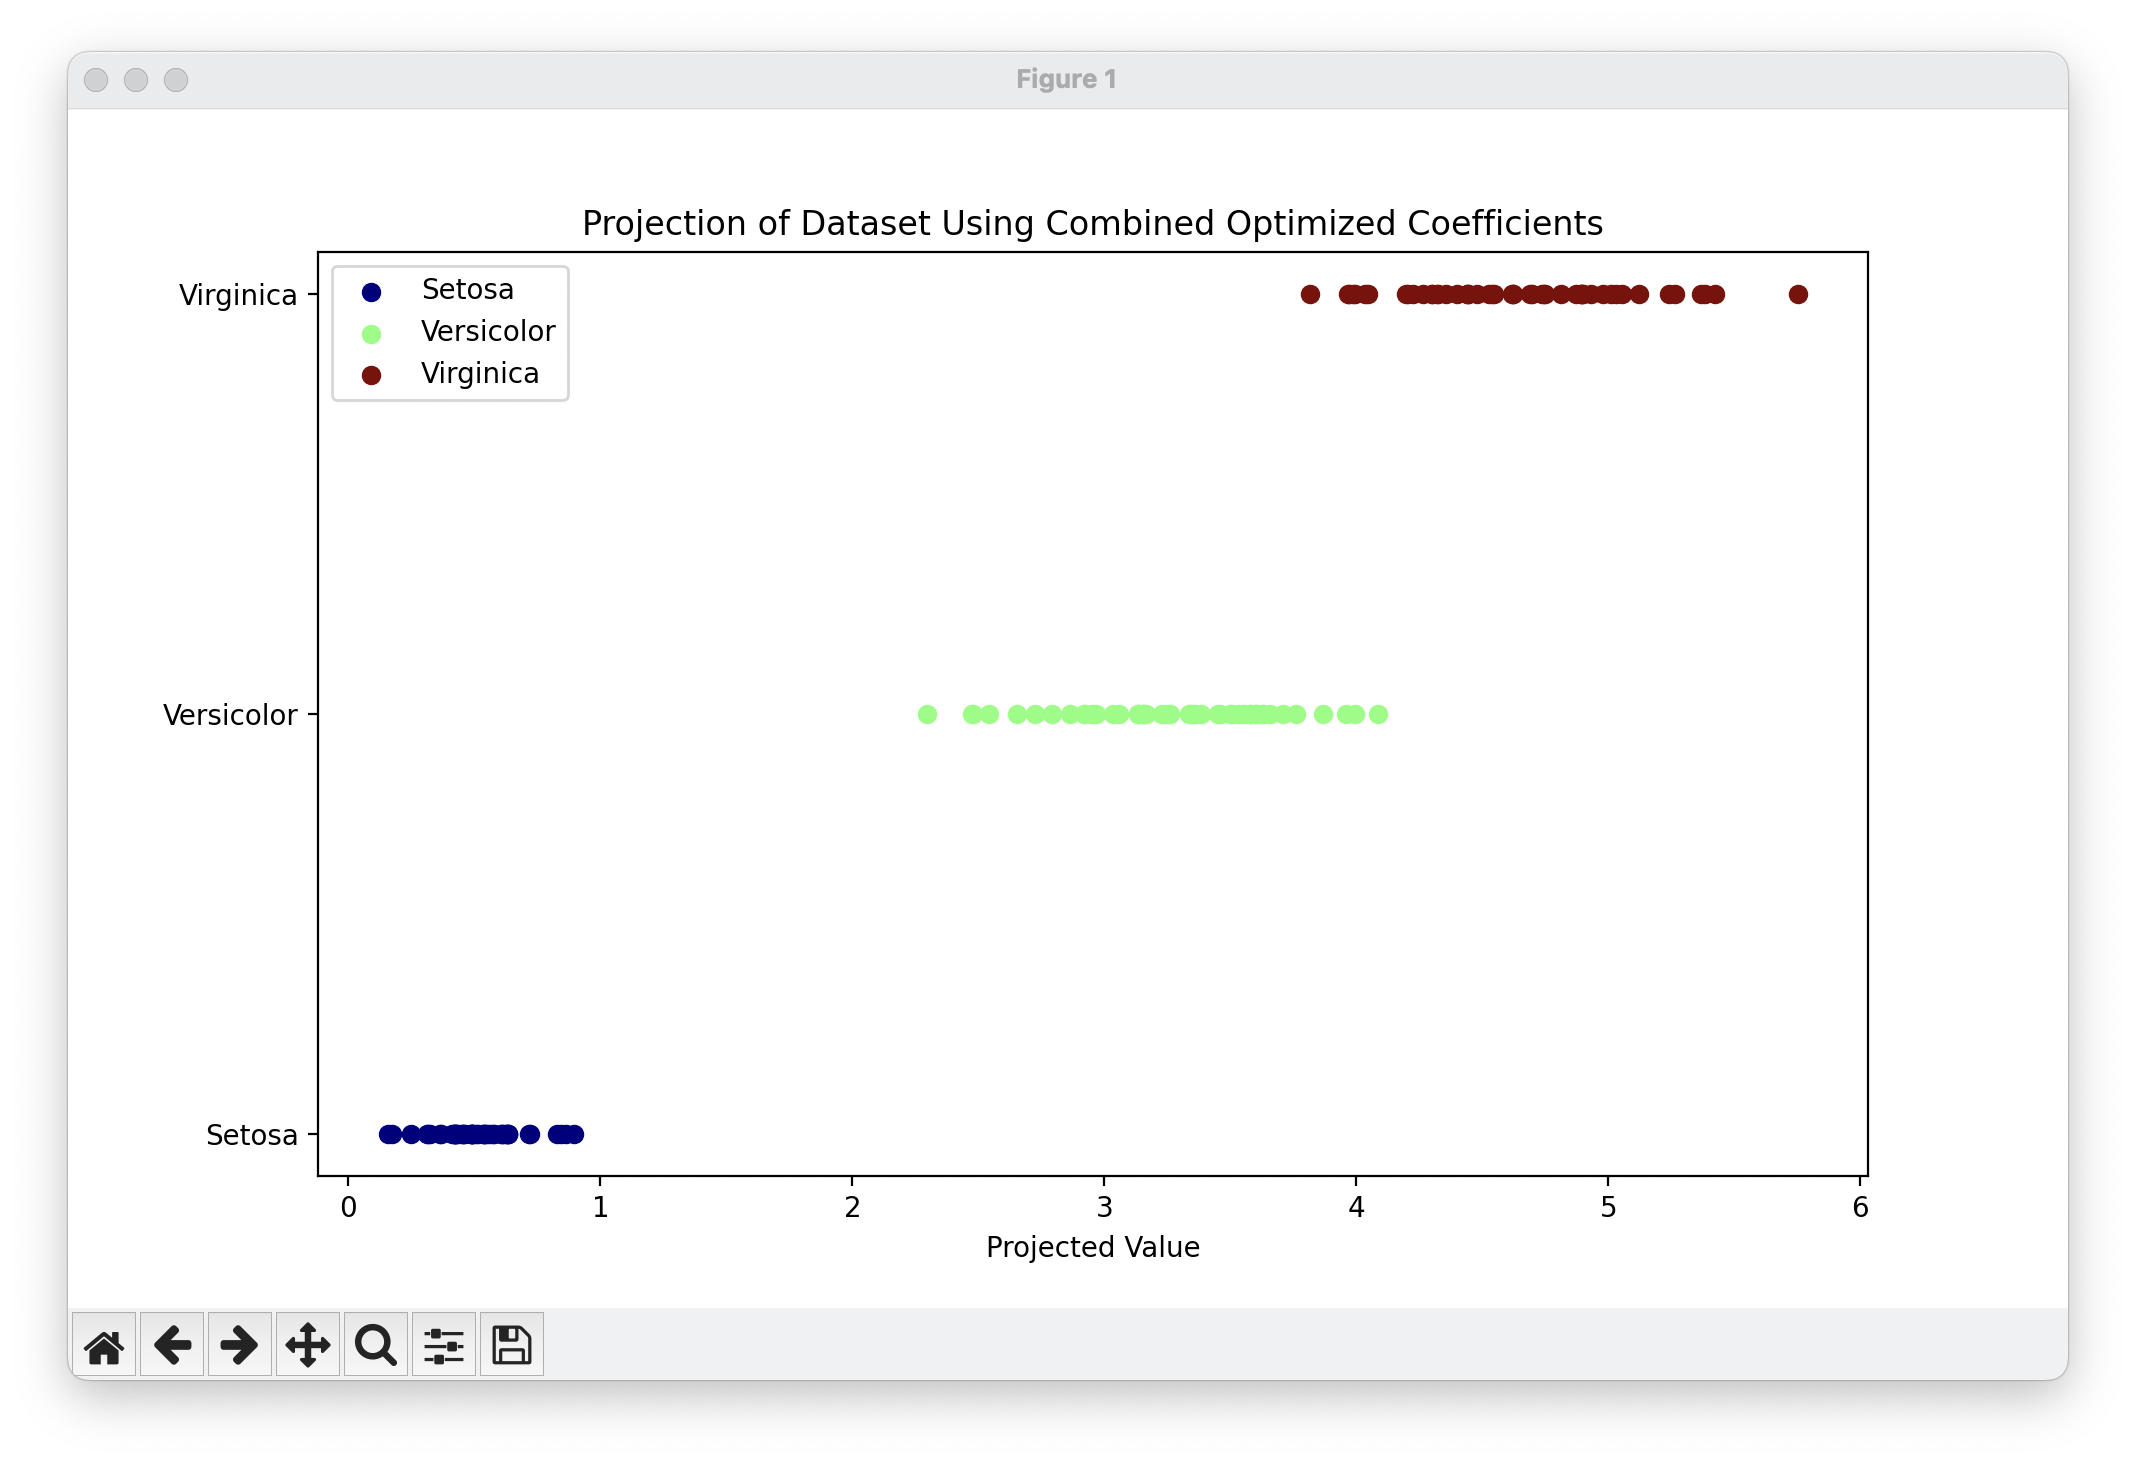
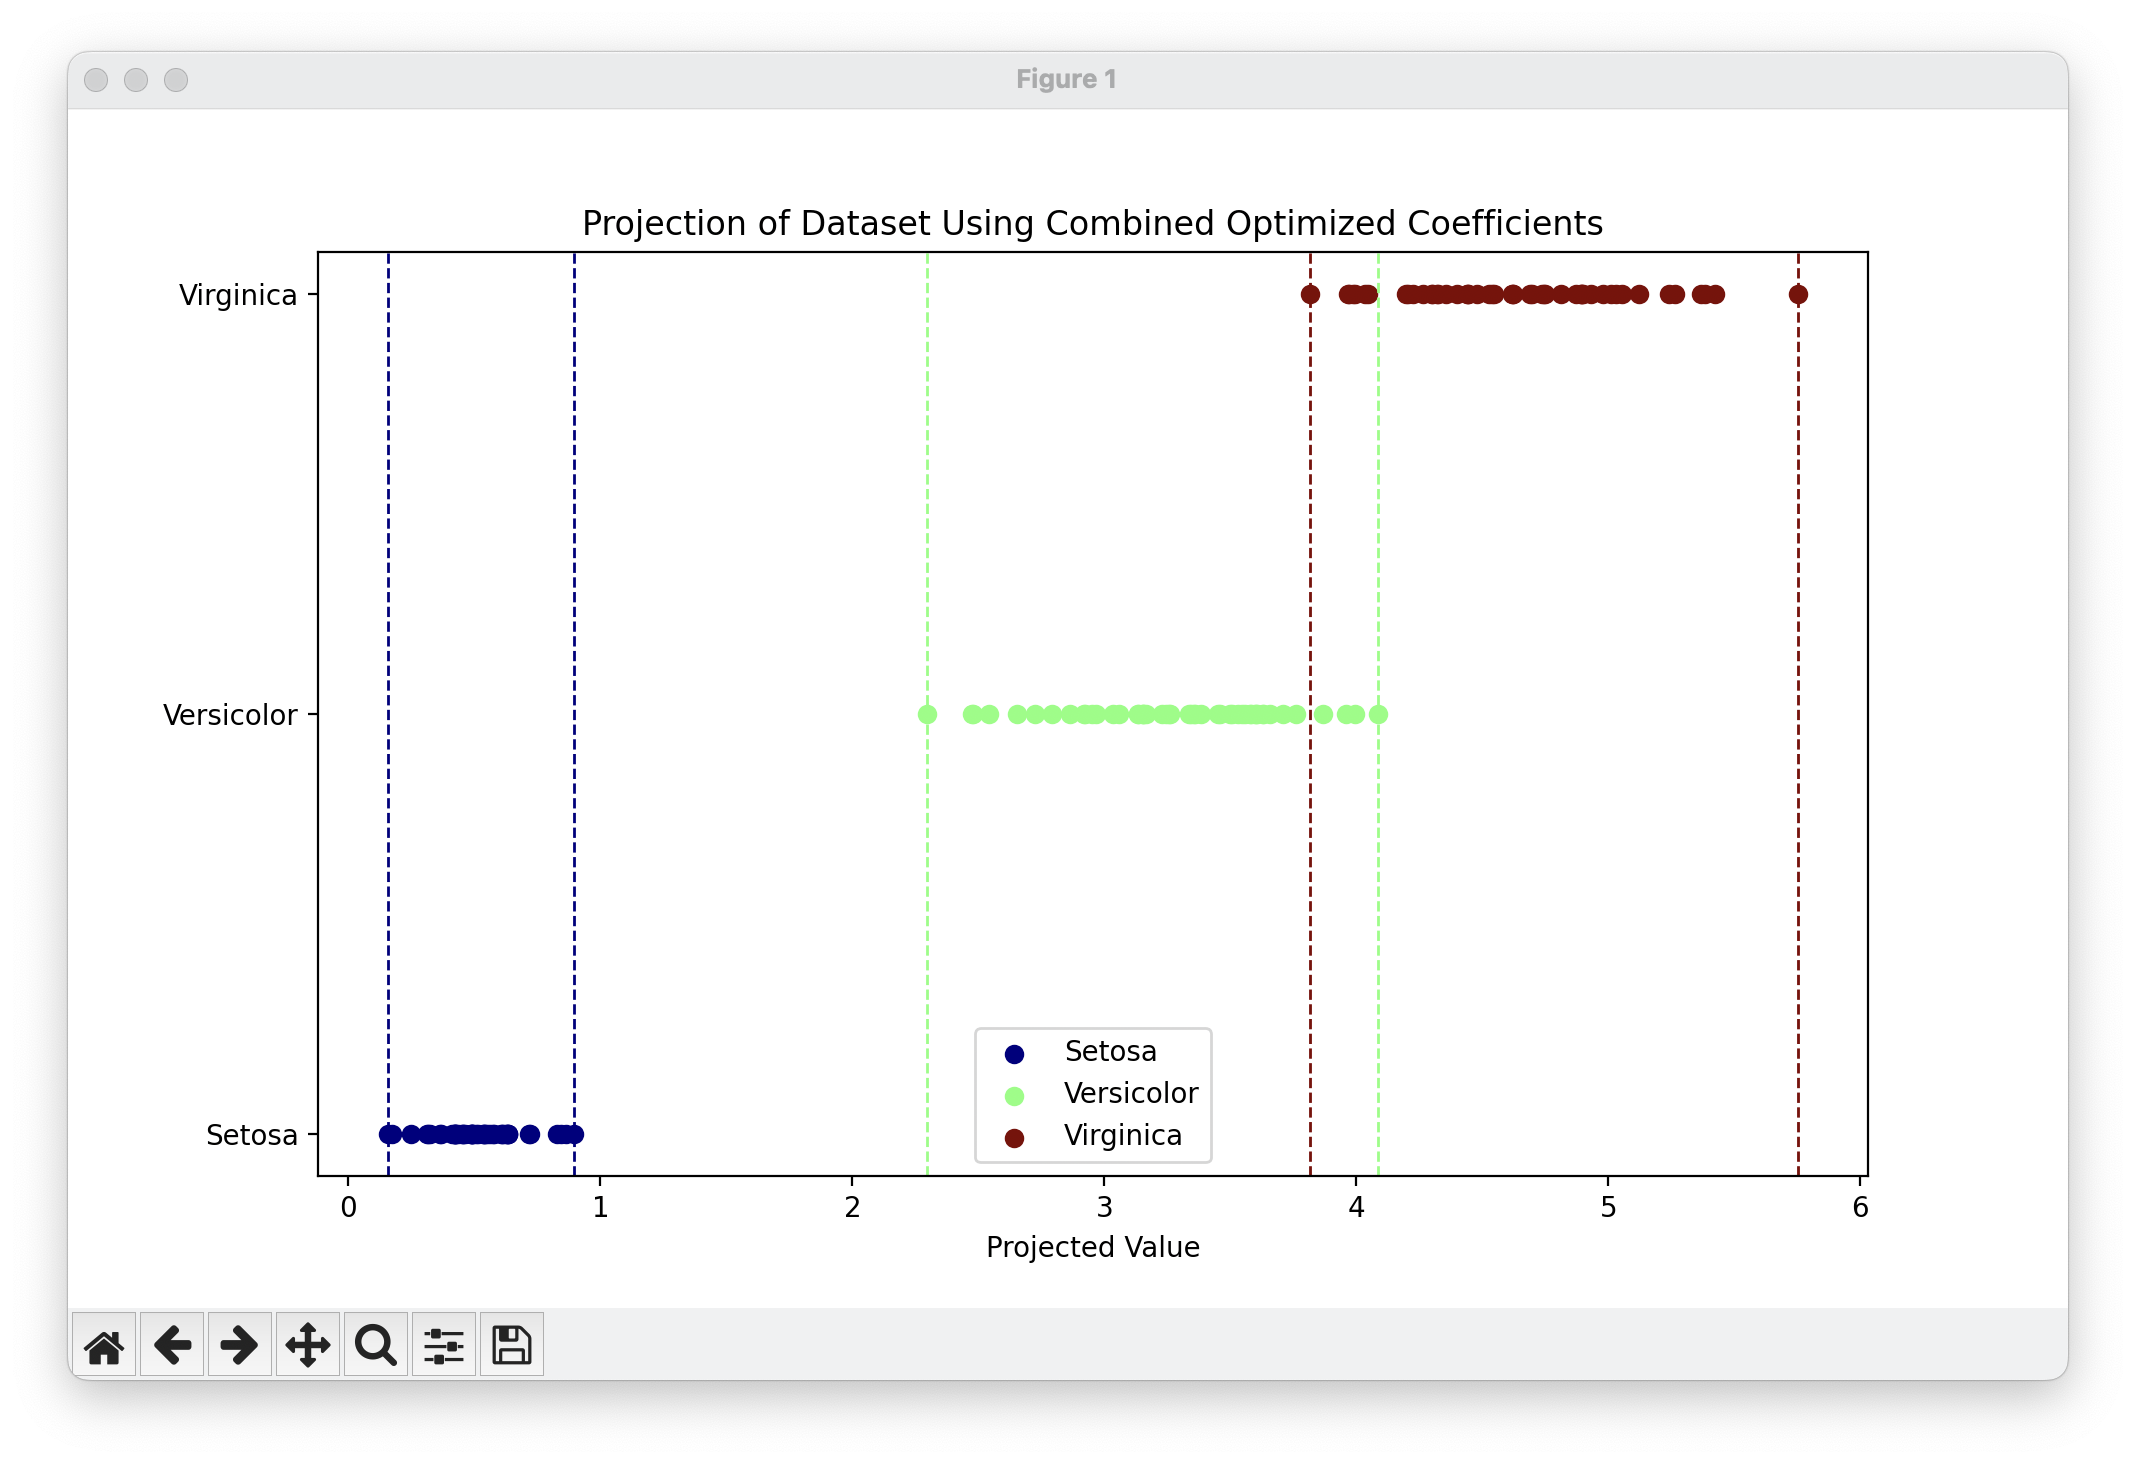
Subspace projection lines for start and end

Changed region(s): [[0.1545, 0.1844, 0.2781, 0.2766], [0.4635, 0.707, 0.5562, 0.7992]]

diff --git a/demo.py b/demo.py
@@ -55,7 +55,7 @@ def optimize_coefficients(X, y):
     return result.x
 
 def project_and_plot(X, y, W_optimal, class_names):
-    """Projects the data using the optimized coefficients and plots the result."""
+    """Projects the data using the optimized coefficients and plots the result with subspace boundaries."""
     XW = X @ W_optimal.reshape((-1, 1))
 
     plt.figure(figsize=(10, 6))
@@ -63,7 +63,12 @@ def project_and_plot(X, y, W_optimal, class_names):
     colors = plt.cm.jet(np.linspace(0, 1, len(unique_classes)))
 
     for i, color in zip(unique_classes, colors):
-        plt.scatter(XW[y == i], np.zeros_like(XW[y == i]) + i, color=color, label=class_names[i])
+        class_projection = XW[y == i]
+        plt.scatter(class_projection, np.zeros_like(class_projection) + i, color=color, label=class_names[i])
+        
+        # Draw lines at the beginning and end of each class's subspace
+        plt.axvline(x=class_projection.min(), color=color, linestyle='--', linewidth=1)
+        plt.axvline(x=class_projection.max(), color=color, linestyle='--', linewidth=1)
 
     plt.title('Projection of Dataset Using Combined Optimized Coefficients')
     plt.xlabel('Projected Value')
